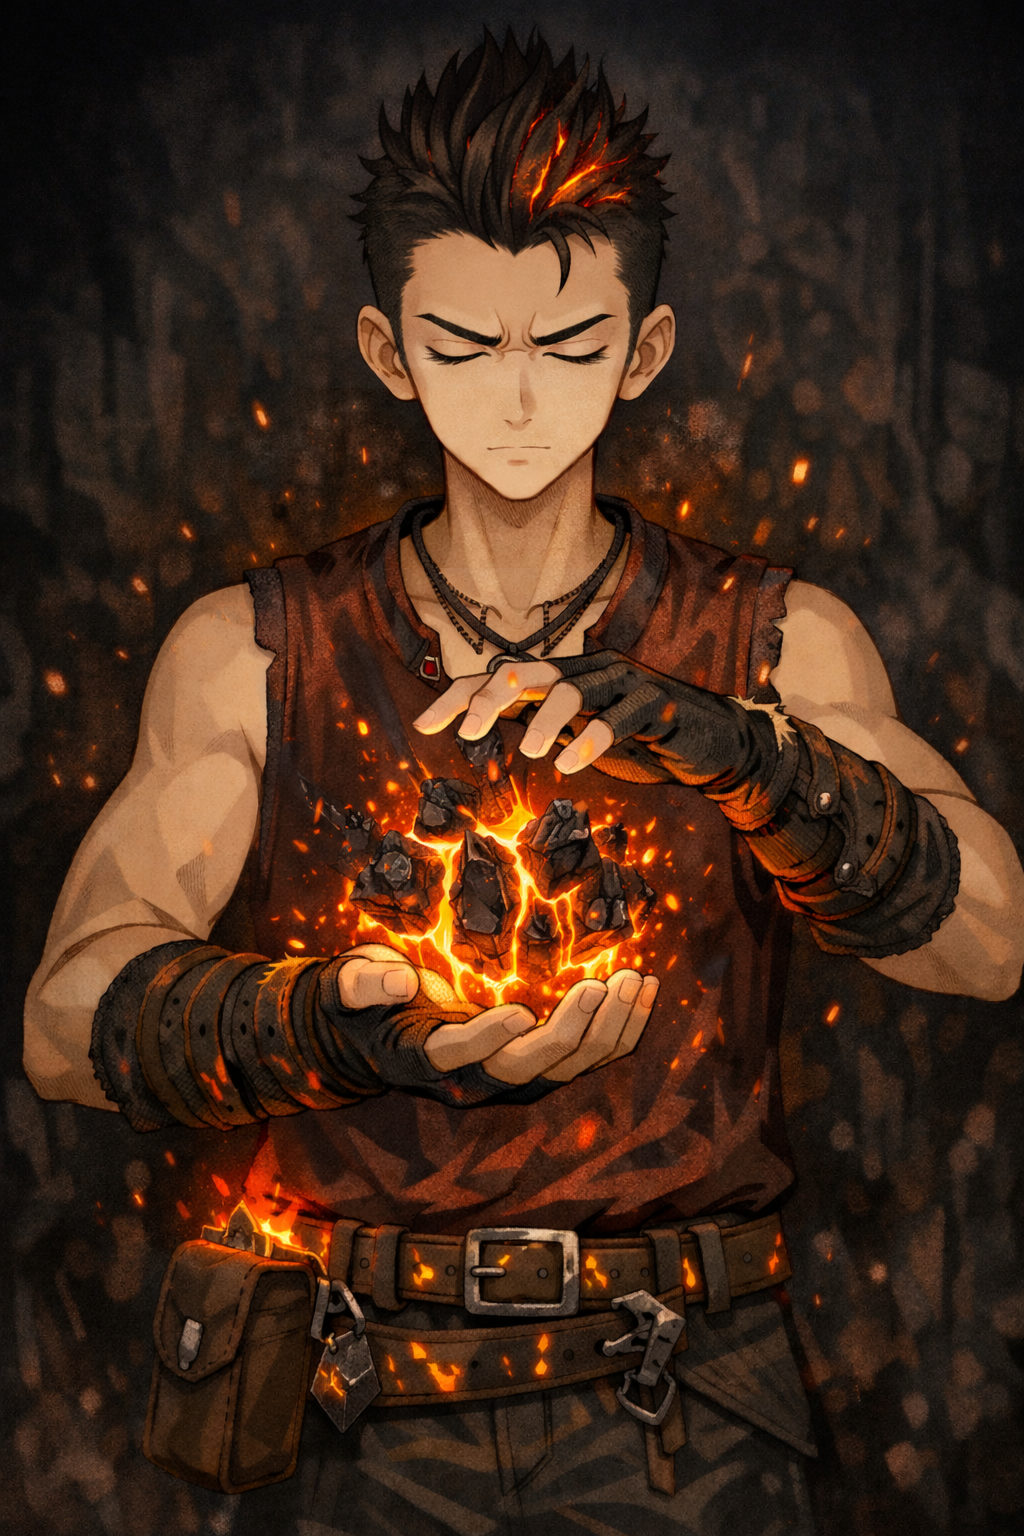
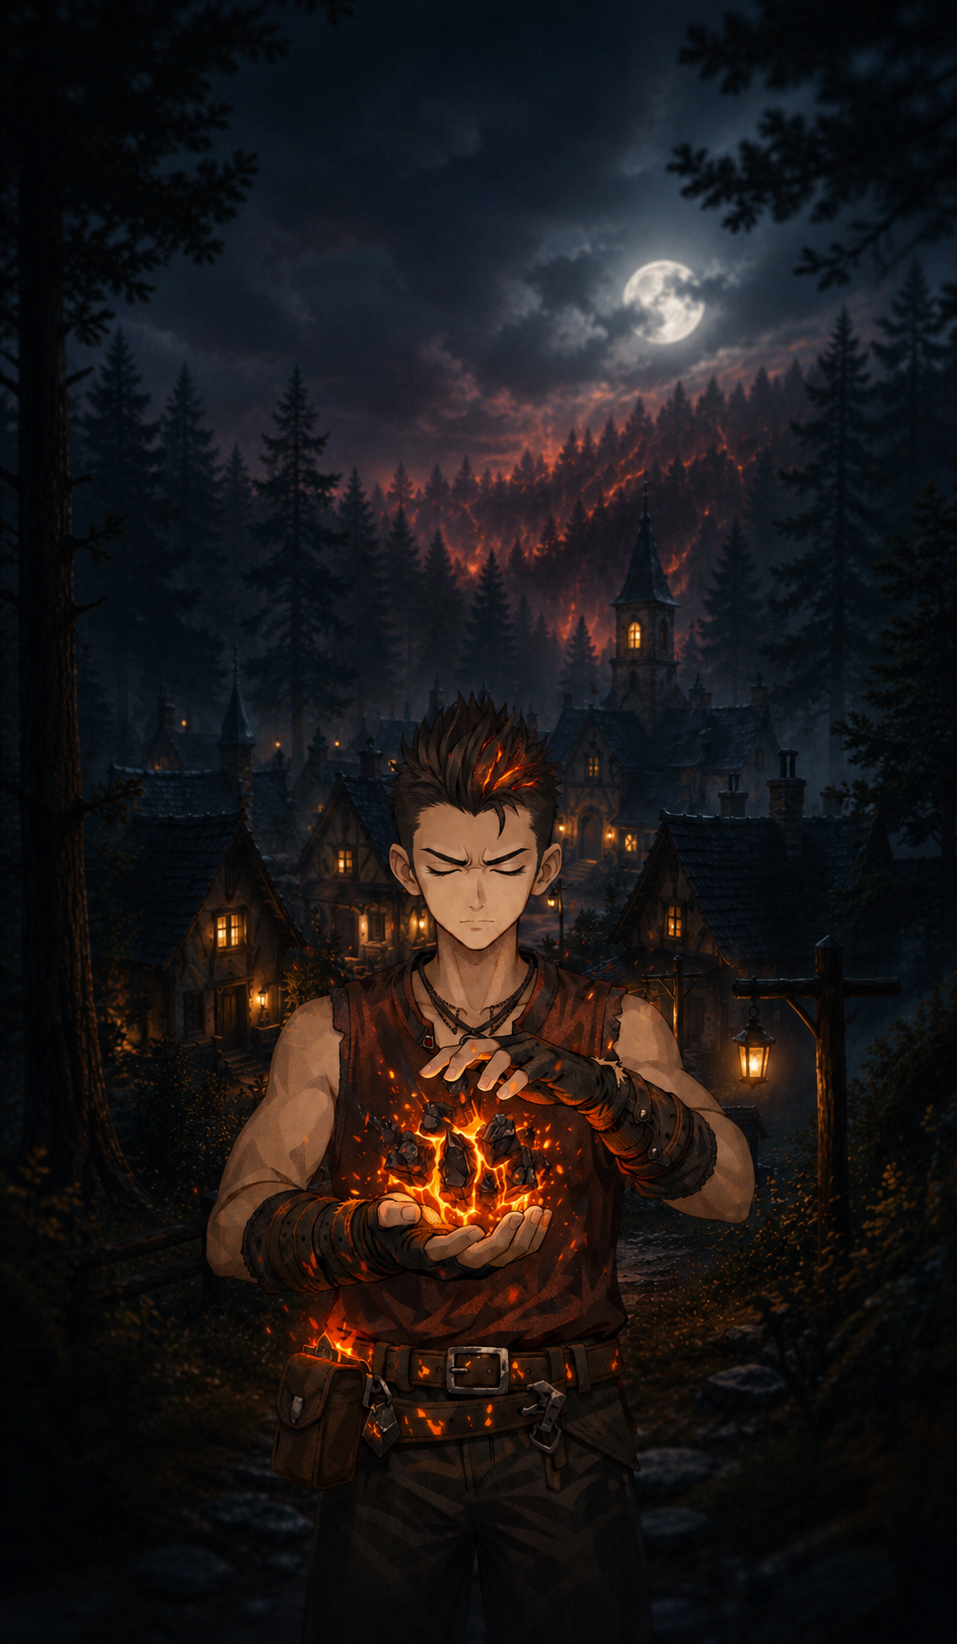
Sửa lỗi buff nguyên tố 2

diff --git a/backend/src/socketHandlers.ts b/backend/src/socketHandlers.ts
@@ -194,7 +194,7 @@ export function registerSocketHandlers(params: RegisterSocketHandlersParams) {
         correctCount,
         totalCount,
         triggeredBuffVote,
-        nextBuffVoteNight,
+        ...(nextBuffVoteNight !== undefined ? { nextBuffVoteNight } : {}),
       });
     }
   }
